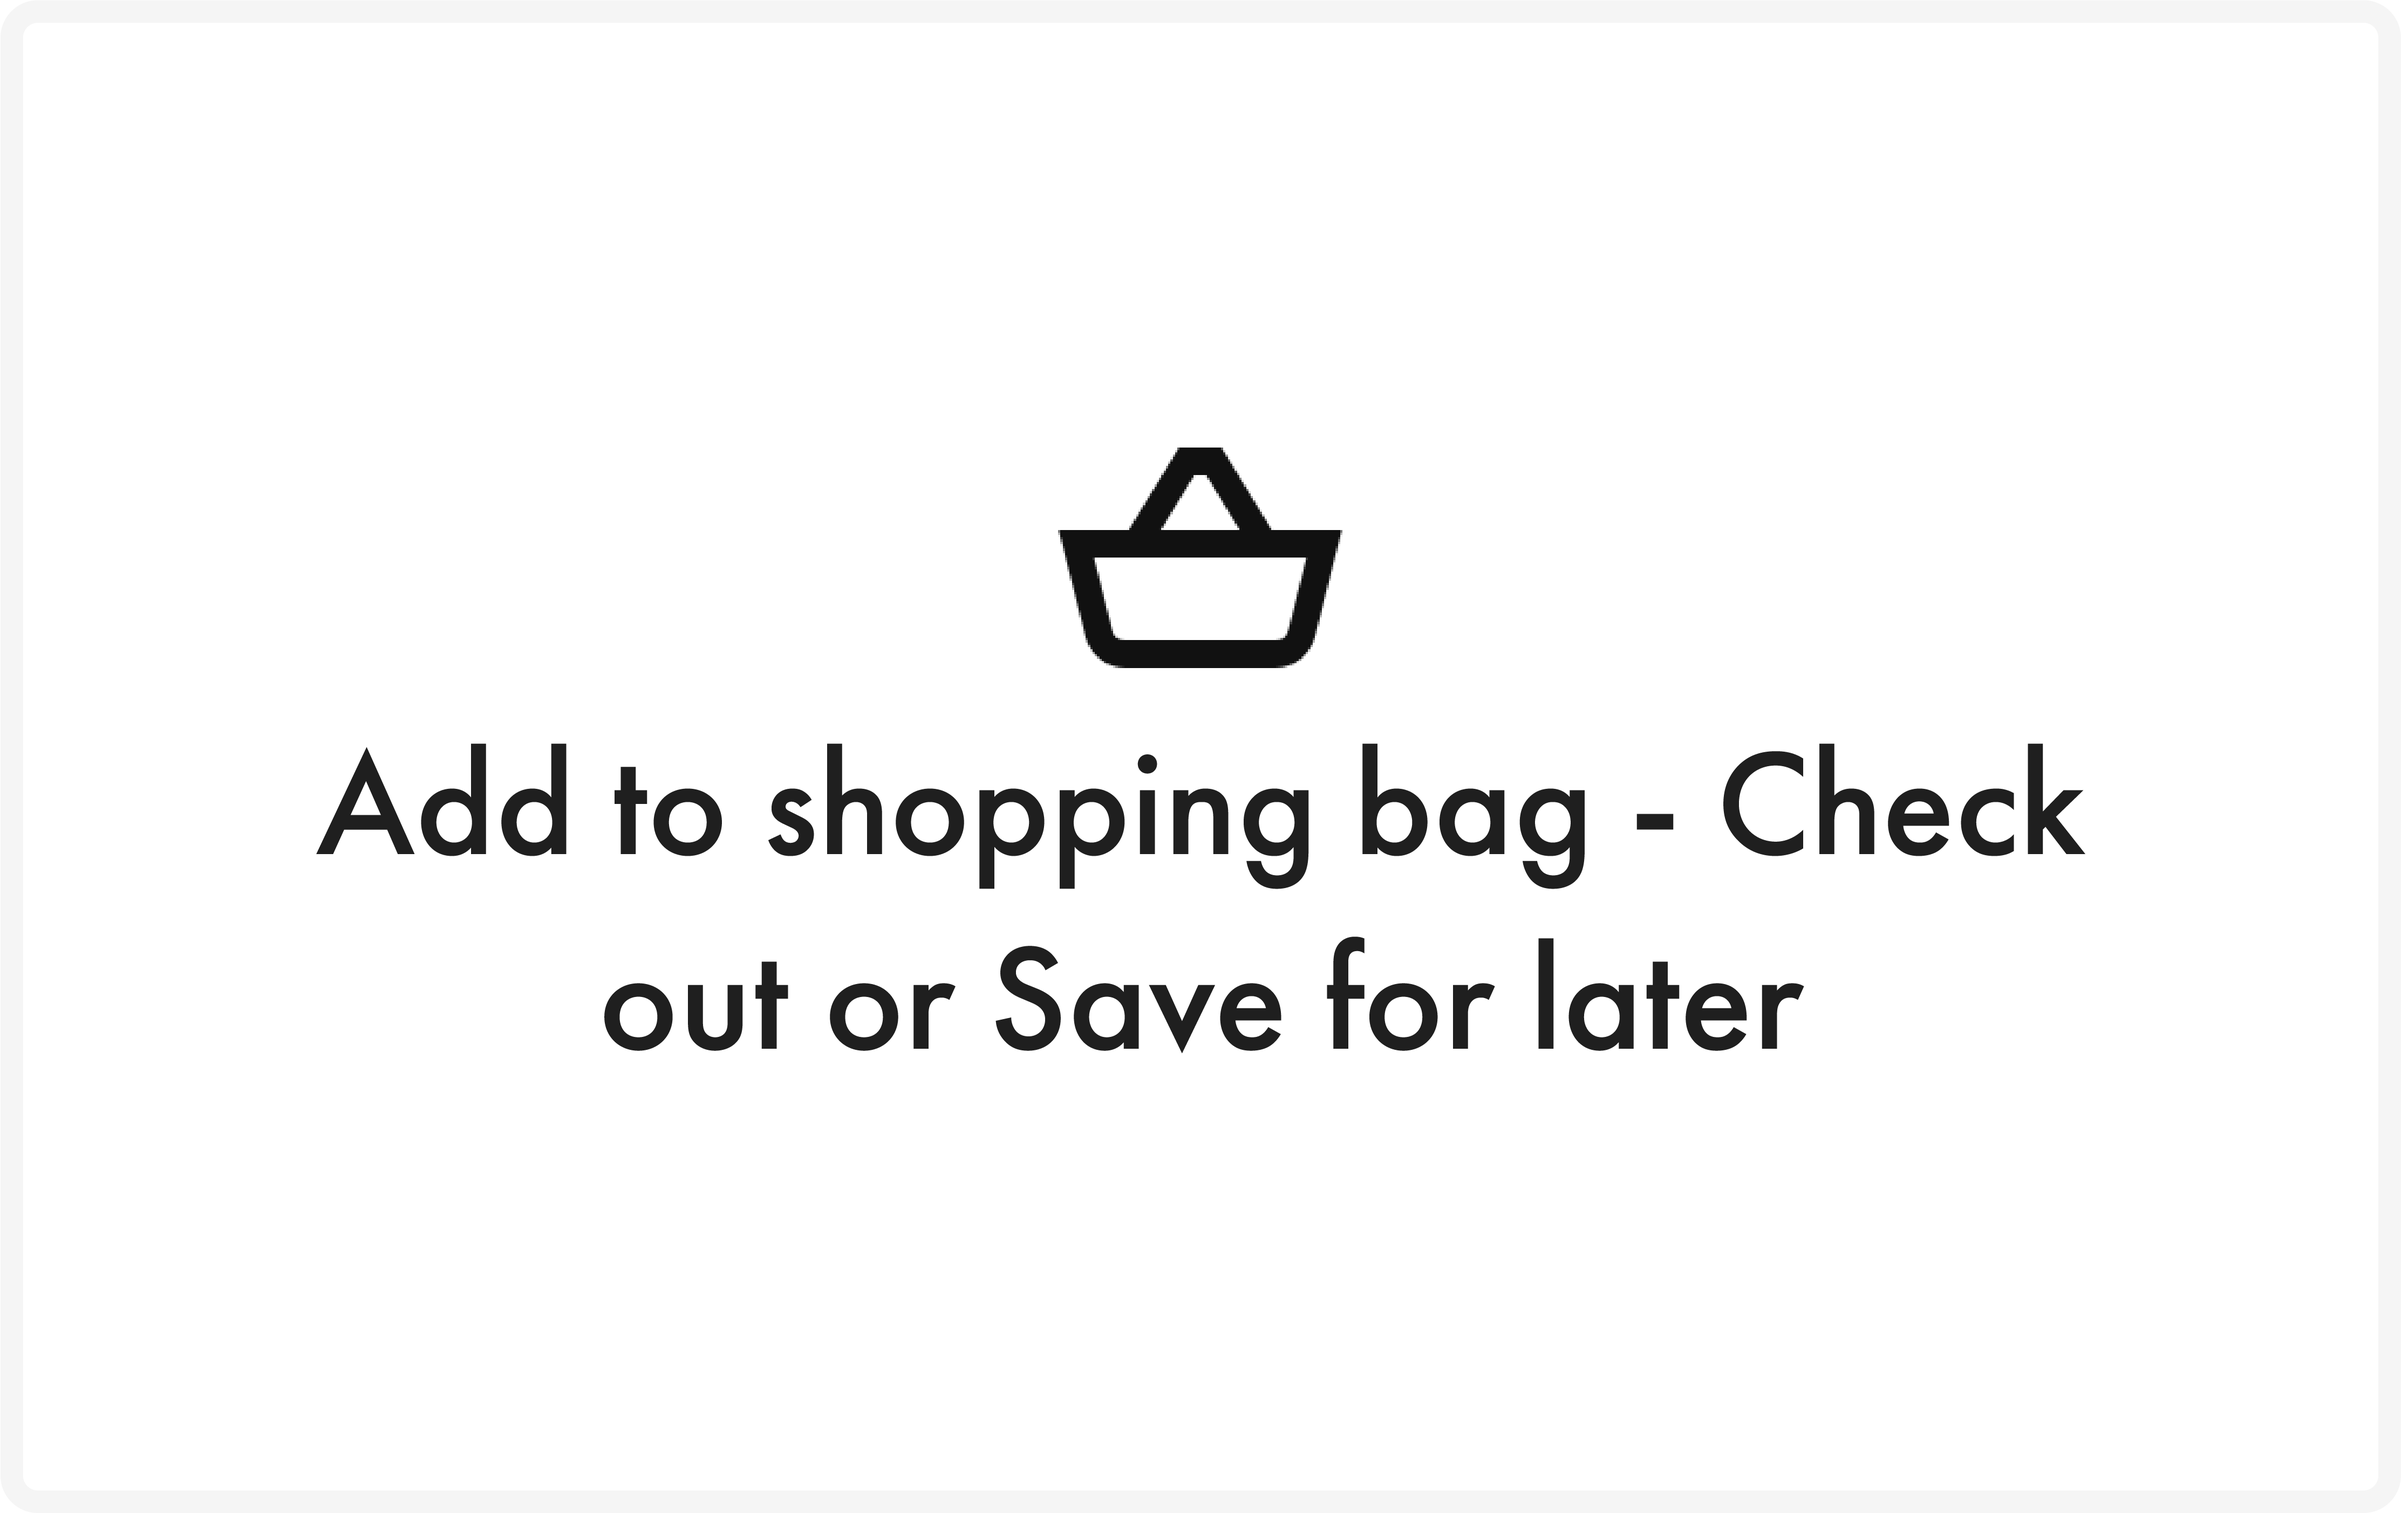
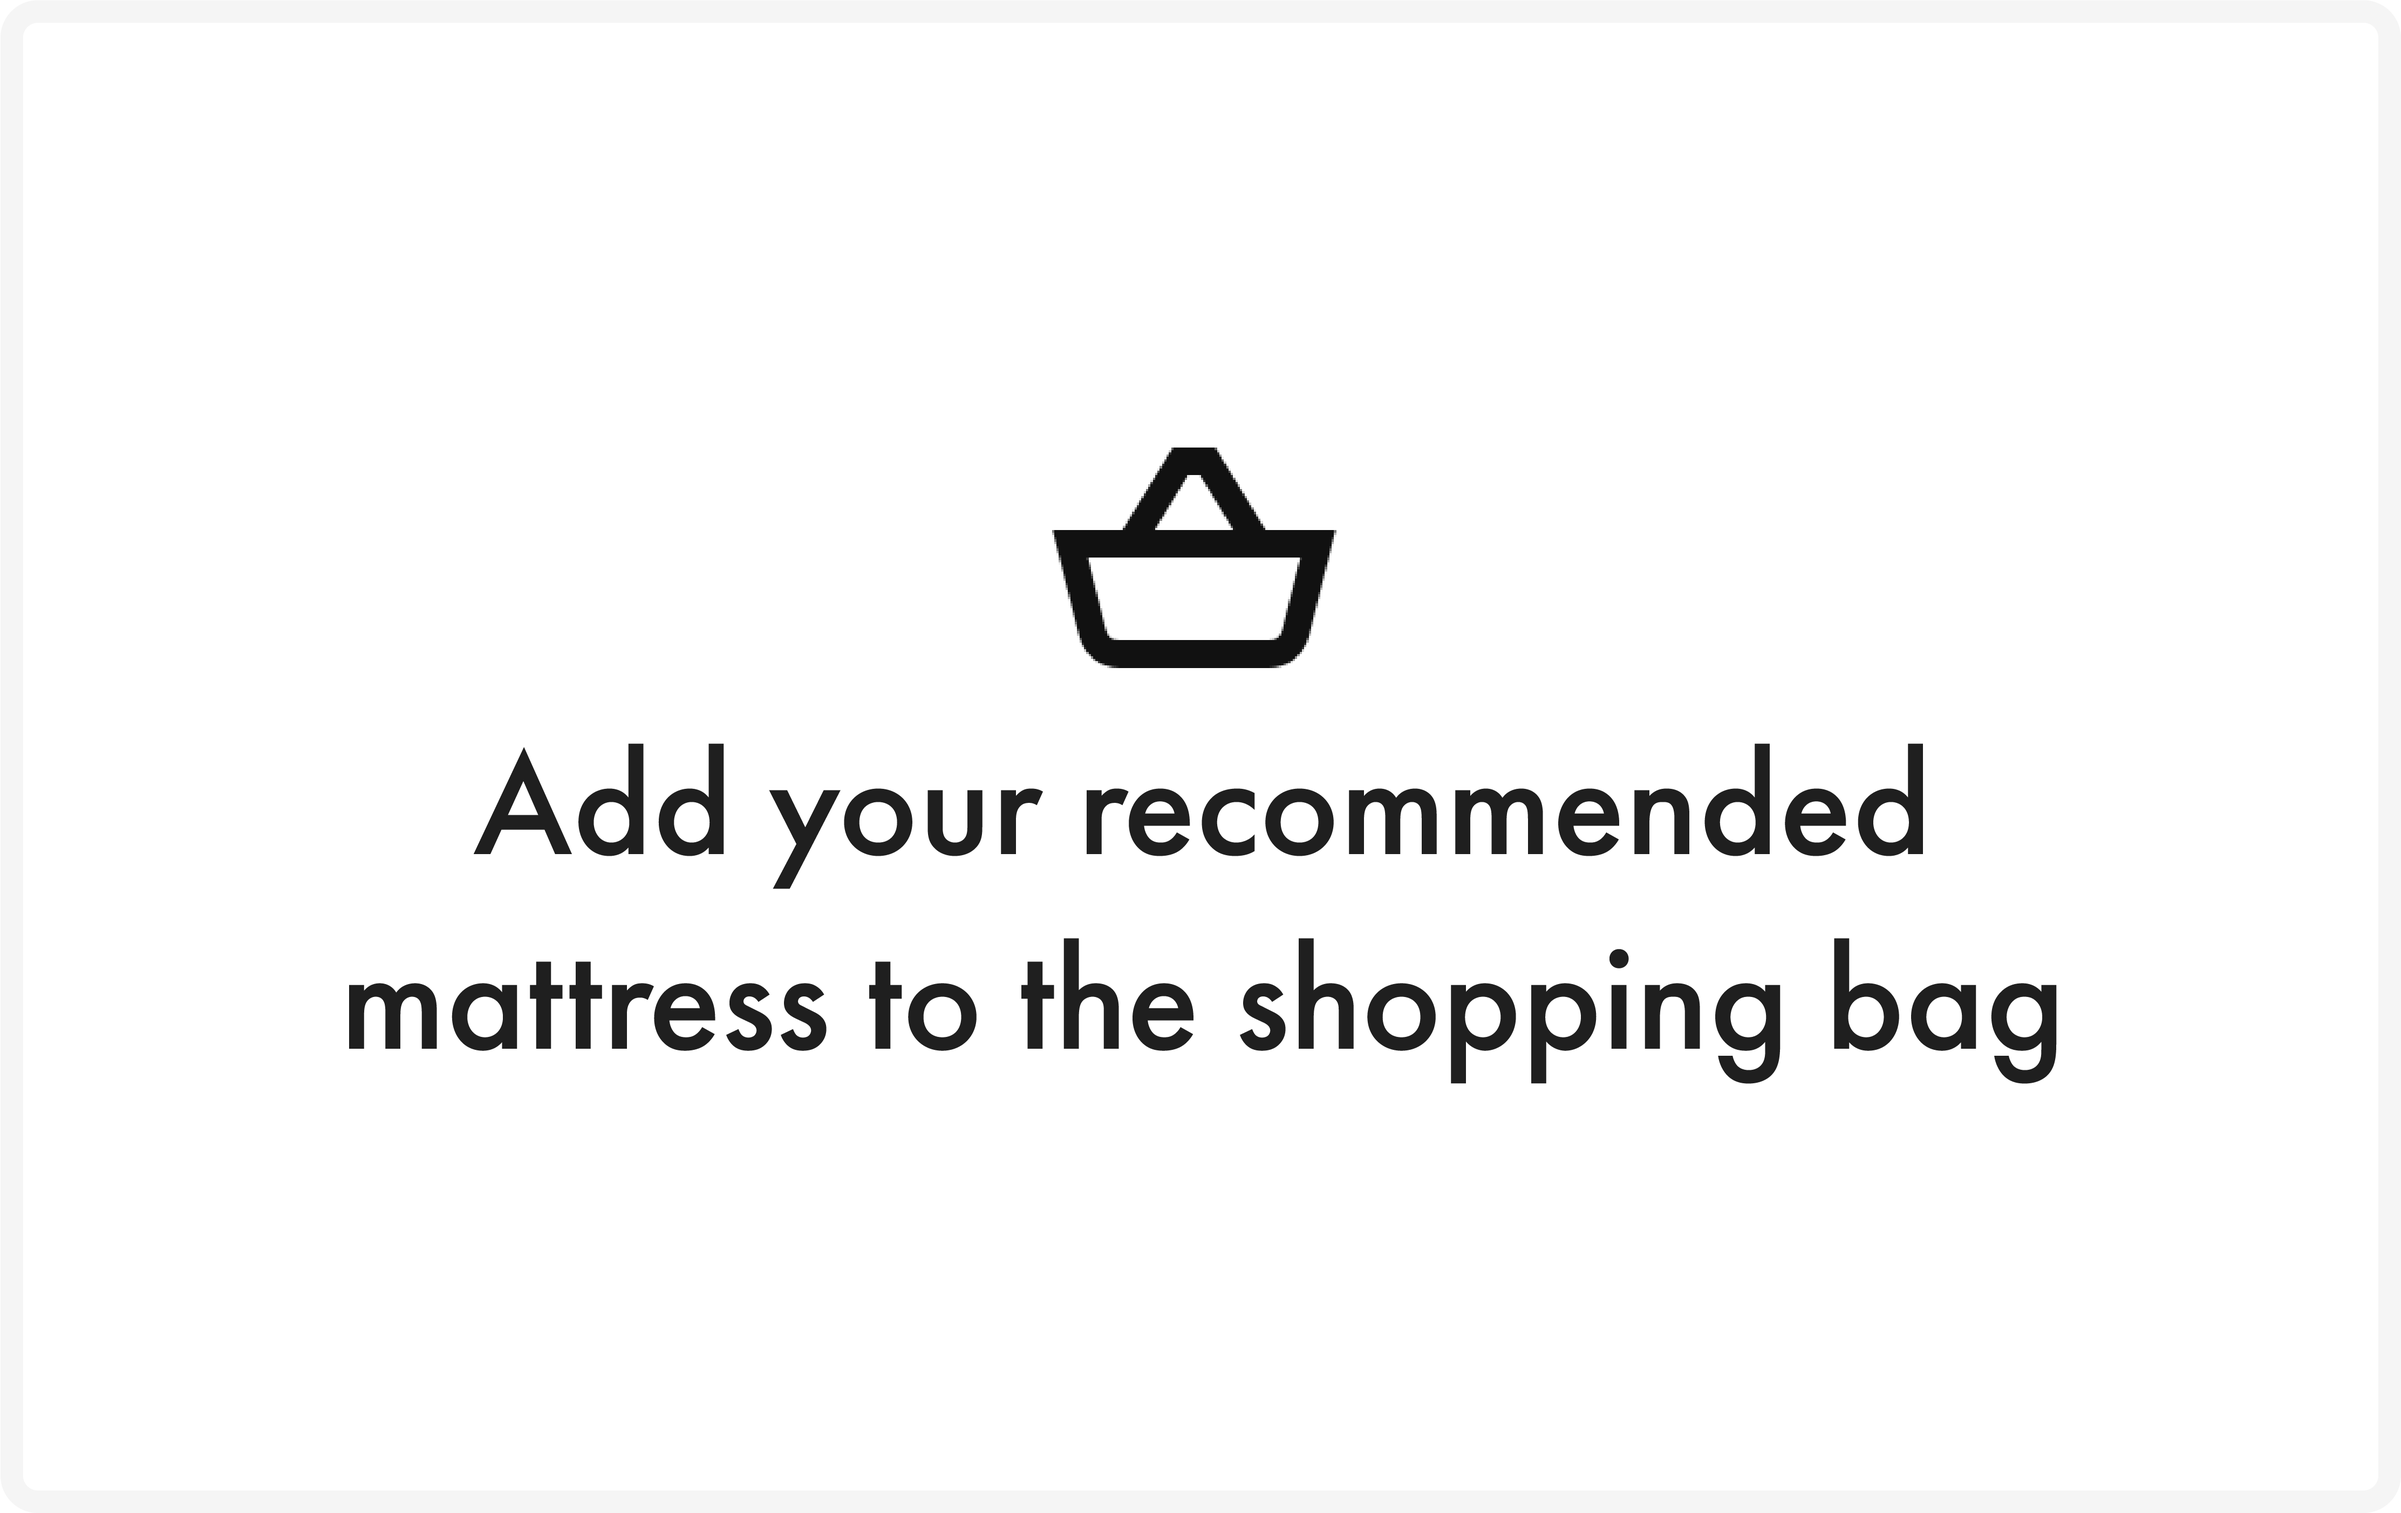
check-out left part + shopping bag

diff --git a/checkout.css b/checkout.css
@@ -18,18 +18,22 @@
 .back{
   text-align: left;
   margin-top: 0;
+  margin-top: 6.15%;
 }
 
 .titlerec{
   margin-left:5%;
-  margin-top:20%;
+  margin-top:14.5%;
   width: 90%;
-  height: 5%;
-  border-radius: 3px;
   text-align: center;
-  background-color: #0058AB;
+  color: white;
   font-family: futura-pt, sans-serif;
-  color:white;
+  font-weight: 300;
+  font-size: 18px;
+  font-style: normal;
+  vertical-align: middle;
+  border-radius: 5px;
+  background-color: #0058AB;
 }
 .divshop{
   width:40%;
@@ -41,7 +45,7 @@
 }
 
 .mattressrec{
-  margin-top:15%;
+  margin-top:5%;
 }
 
 #store{
@@ -82,4 +86,60 @@
   padding: 10%;
   margin-top: 7.5%;
   line-height: 37.5px;
+}
+
+.name{
+  font-family: futura-pt, sans-serif;
+  font-weight: 700;
+  font-size: 15px;
+  font-style: normal;
+  text-align: left;
+  margin-left: 0;
+  margin-bottom: 0;
+  padding-bottom: 0;
+  float: left;
+  display: inline;
+  margin-top: 5%;
+  margin-left: 25px;
+}
+
+.match{
+  font-family: futura-pt, sans-serif;
+  font-weight: 700;
+  font-size: 30px;
+  font-style: normal;
+  text-align: center;
+  margin-left: 0;
+  margin-bottom: 0;
+  padding-bottom: 0;
+  color: #0058AB;
+  float: left;
+  margin-top: 32px;
+  margin-left: -70px;
+}
+
+.price{
+  font-family: futura-pt, sans-serif;
+  font-weight: 700;
+  font-size: 15px;
+  font-style: normal;
+  text-align: left;
+  float: right;
+  margin-right: 25px;
+  margin-top: 5%;
+}
+
+.reqrec{
+  margin-top: 34px;
+  margin-left: -5px;
+}
+
+.bedinfo{
+  font-family: futura-pt, sans-serif;
+  font-weight: 300;
+  font-size: 12px;
+  font-style: normal;
+  text-align: left;
+  padding-left: 27px;
+  padding-right: 27px;
 }

diff --git a/checkout.html b/checkout.html
@@ -18,12 +18,31 @@
     <div class="left">
       <div class="back">
         <a href="testrec.html">
-          <img src="images/back.png" width="5%" />
+          <img src="images/back.png" width="5.5%" />
         </a>
         <div class="titlerec" id="">
-          <p id="titlerec" onclick=""></p>
+          <p >your perfect mattress</p>
         </div>
         <img src="" class="mattressrec" id="selectedmattrass" width="110%" />
+
+        <p class="name" id="titlerec">
+          HOVAG
+        </p>
+        <p class="price" id="pricerec">
+          €239
+        </p>
+        <div>
+        <p class="match" id="matchrec">
+          7/9
+        </p>
+              </div>
+          <img src="images/matchgrey.jpg" class="reqrec" width="22%"/>
+          <div class="bedinfo" id="bedinfo">
+            <br>
+            The pocket springs act independently to follow the contours and movements of your body. Add to this, a thick layer of soft filling for even more luxury and comfort.
+          </div>
+
+
       </div>
     </div>
     <div class="right">
